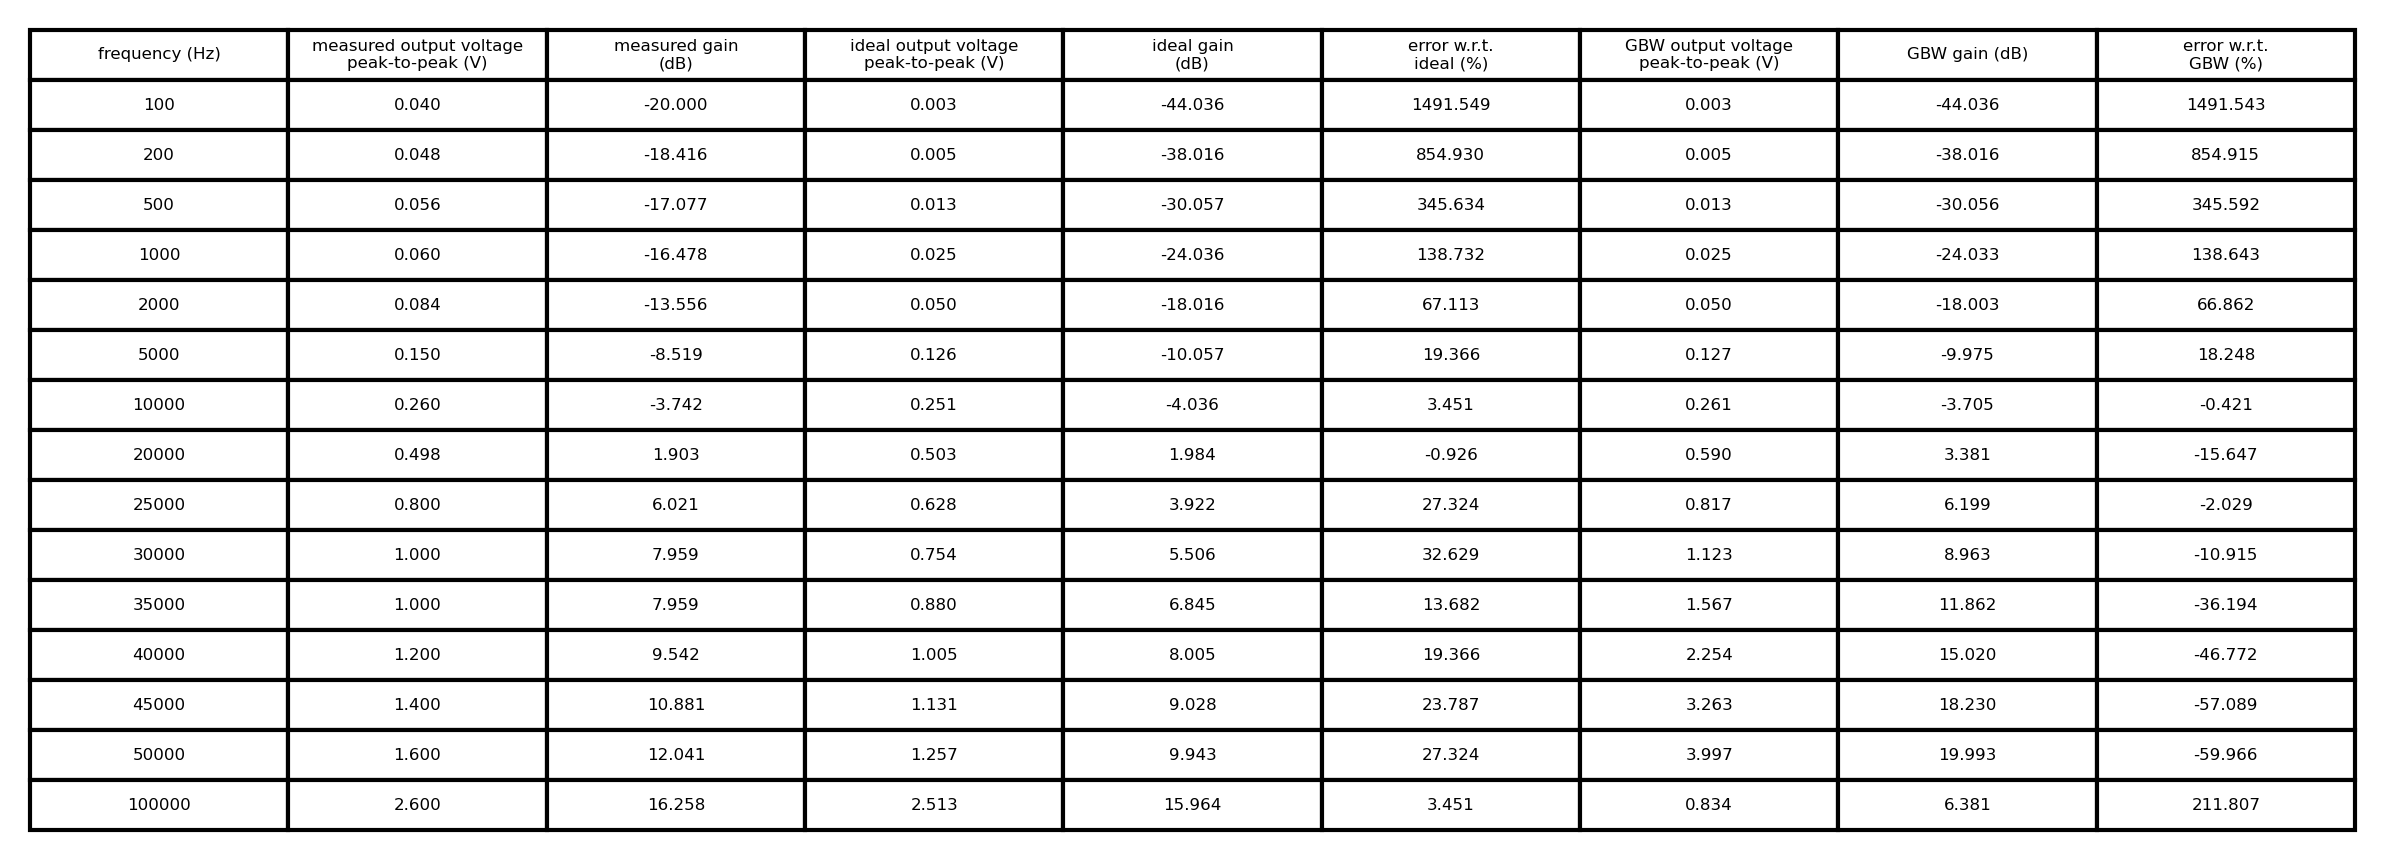
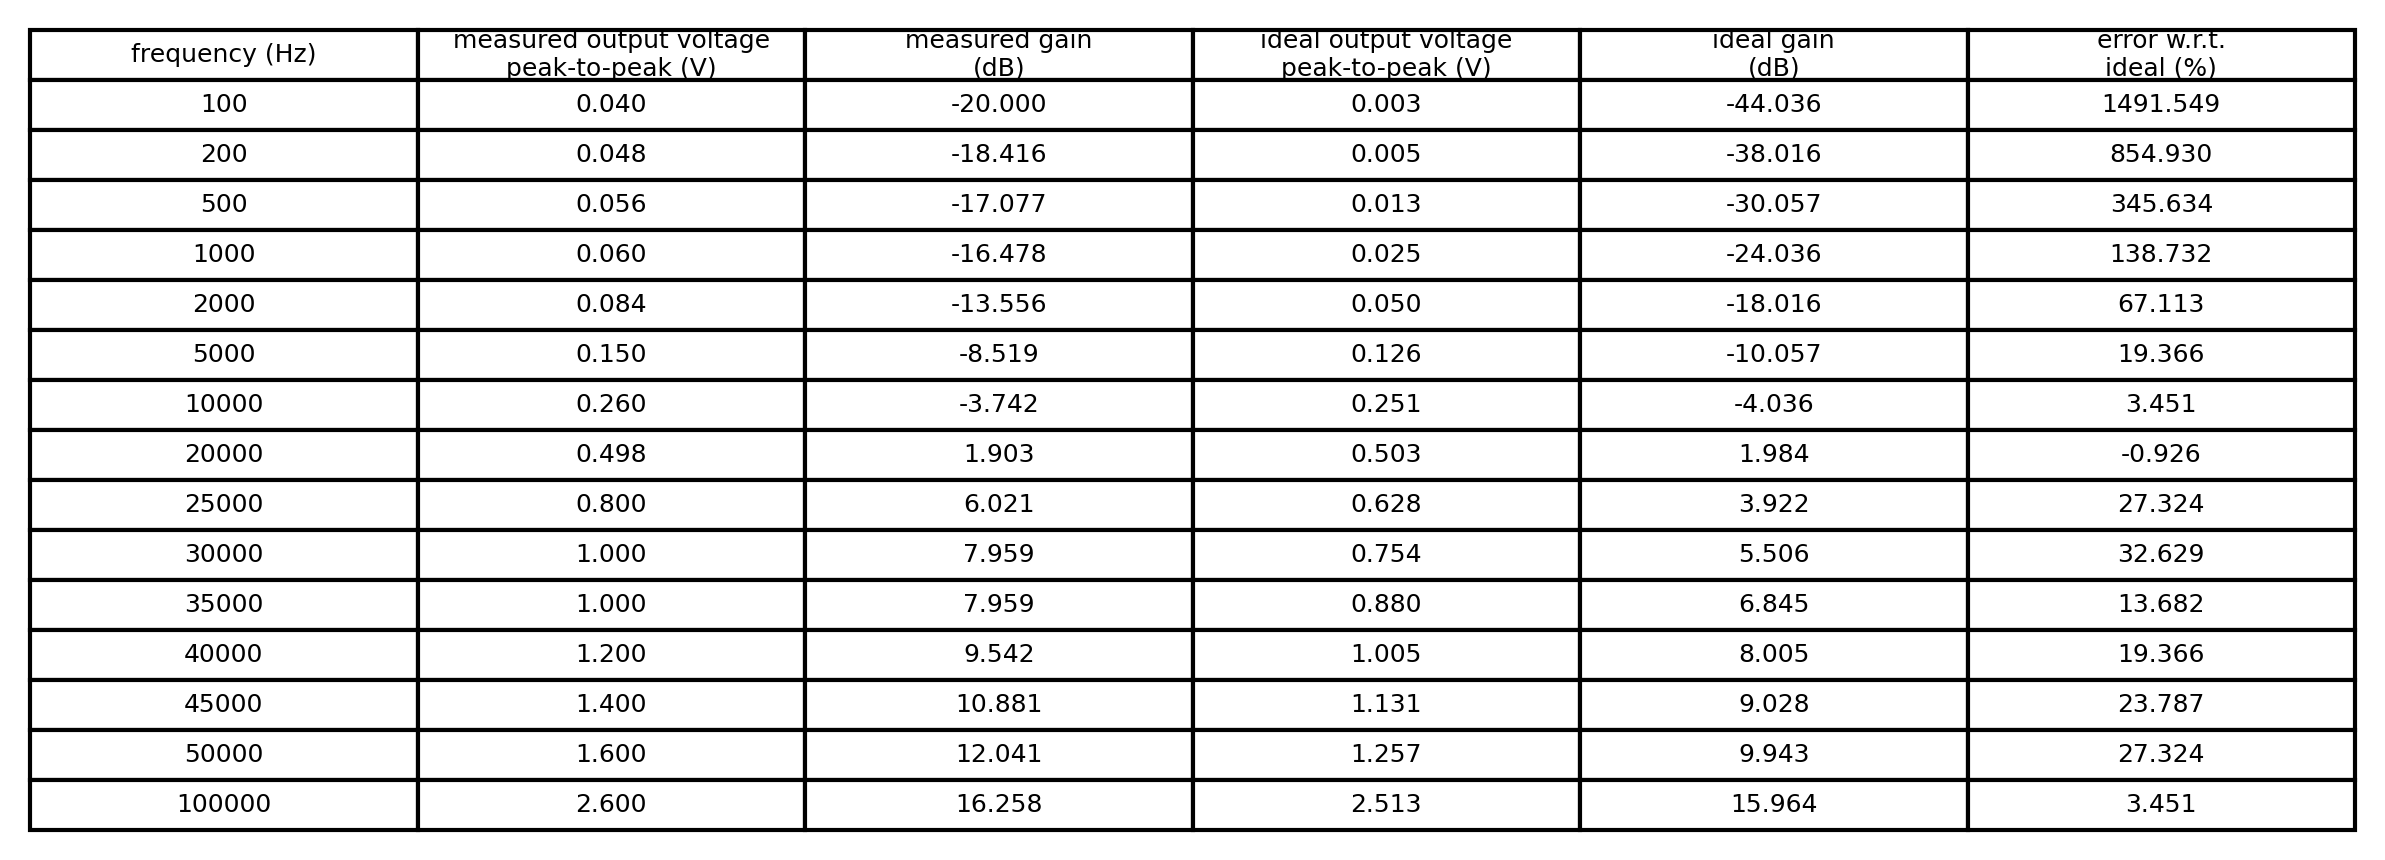
2026-10-20T19:11:20+00:00

diff --git a/2/post-lab/bode_plot.py b/2/post-lab/bode_plot.py
@@ -5,12 +5,10 @@ import matplotlib.pyplot as plt
 R = 1e3  # Integrator input resistor, ohms
 RF = 20e3  # Integrator feedback resistor, ohms
 R_DIFF = 1e3  # Differentiator feedback resistor, ohms
-GBW = 1e6  # Op-amp gain-bandwidth product, Hz
 VIN_PP = 0.4  # Input peak-to-peak voltage, V
 
 
 def transfer_function(freq, name, C):
-    # Return ideal and finite-GBW complex transfer functions
     s = 2j * np.pi * np.asarray(freq, dtype=float)
     if name == "integrator_with_rf":
         # input resistor R
@@ -29,9 +27,7 @@ def transfer_function(freq, name, C):
         Zf = R_DIFF
     else:
         raise ValueError(f"Unknown name: {name}")
-    H_ideal = -Zf / Zin
-    H_gbw = -H_ideal / (1 + s * (1 - H_ideal) / GBW)
-    return H_ideal, H_gbw
+    return -Zf / Zin
 
 
 def magnitude_db(H):
@@ -42,14 +38,11 @@ def process(C, freq, vout_pp, name, title, plotname, tablename):
     assert freq.shape == vout_pp.shape
     freq = np.asarray(freq, dtype=float)
     measured = np.asarray(vout_pp, dtype=float)
-    H_ideal, H_gbw = transfer_function(freq, name, C)
-    ideal_vout = VIN_PP * np.abs(H_ideal)
-    gbw_vout = VIN_PP * np.abs(H_gbw)
+    H = transfer_function(freq, name, C)
+    ideal_vout = VIN_PP * np.abs(H)
     measured_db = 20 * np.log10(measured / VIN_PP)
-    ideal_db = magnitude_db(H_ideal)
-    gbw_db = magnitude_db(H_gbw)
+    ideal_db = magnitude_db(H)
     ideal_error = 100 * (measured - ideal_vout) / ideal_vout
-    gbw_error = 100 * (measured - gbw_vout) / gbw_vout
     columns = [
         "frequency (Hz)",
         "measured output voltage\npeak-to-peak (V)",
@@ -57,9 +50,6 @@ def process(C, freq, vout_pp, name, title, plotname, tablename):
         "ideal output voltage\npeak-to-peak (V)",
         "ideal gain\n(dB)",
         "error w.r.t.\nideal (%)",
-        "GBW output voltage\npeak-to-peak (V)",
-        "GBW gain (dB)",
-        "error w.r.t.\nGBW (%)",
     ]
     data = [
         [
@@ -69,20 +59,14 @@ def process(C, freq, vout_pp, name, title, plotname, tablename):
             f"{i:.3f}",
             f"{id:.3f}",
             f"{ie:.3f}",
-            f"{g:.3f}",
-            f"{gd:.3f}",
-            f"{ge:.3f}",
         ]
-        for f, m, md, i, id, ie, g, gd, ge in zip(
+        for f, m, md, i, id, ie in zip(
             freq,
             measured,
             measured_db,
             ideal_vout,
             ideal_db,
             ideal_error,
-            gbw_vout,
-            gbw_db,
-            gbw_error,
         )
     ]
     fig, ax = plt.subplots(figsize=(10, 1))
@@ -100,7 +84,6 @@ def process(C, freq, vout_pp, name, title, plotname, tablename):
     plt.figure(figsize=(10, 6))
     plt.semilogx(freq, measured_db, "o-", label="Measured")
     plt.semilogx(freq, ideal_db, "--", label="Ideal op-amp")
-    plt.semilogx(freq, gbw_db, "-.", label="GBW = 1 MHz")
     plt.xlabel("Frequency (Hz)")
     plt.ylabel("Magnitude (dB)")
     plt.title(title)
@@ -151,7 +134,7 @@ vout_pp_int_103 = np.array(
         1.8,
         1.8,
         1.6,
-        1.4,
+        1.6,
         1.4,  # 4k
         1.2,  # 5k
         1,
